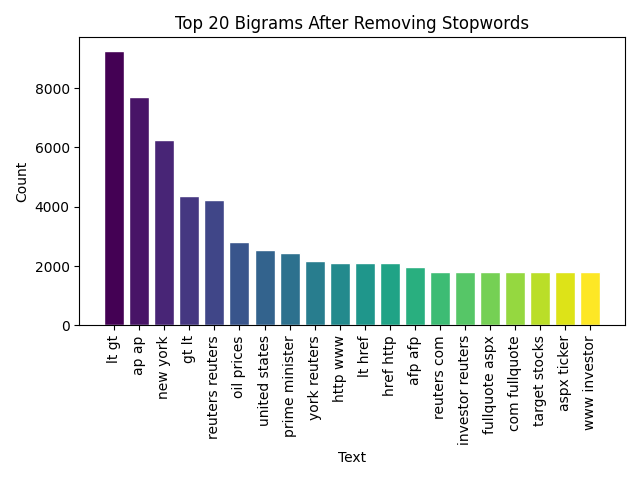
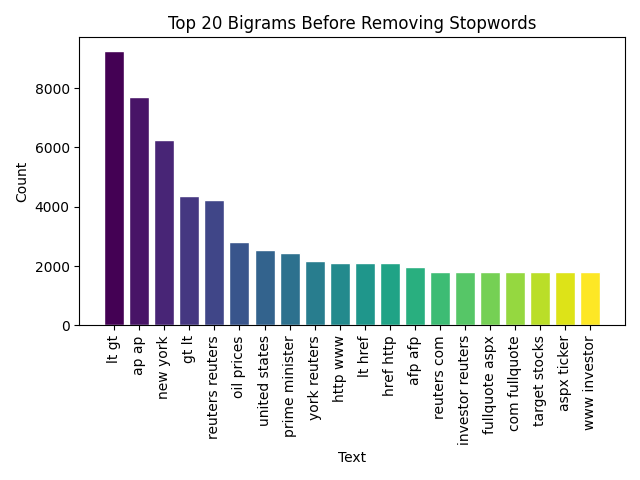
minor changes

Changed region(s): [[0.25, 0.0312, 0.8438, 0.0938]]

diff --git a/eda.py b/eda.py
@@ -127,9 +127,9 @@ def plotBarChart(data, colormap, xlabel, ylabel, title, filename):
 
 plotBarChart(trainBeforeStop, 'viridis', 'Text', 'Count', 'Top 20 Words Before Removing Stopwords', '\\top20BeforeStopwords.png')
 plotBarChart(trainAfterStop, 'viridis', 'Text', 'Count', 'Top 20 Words After Removing Stopwords', '\\top20AfterStopwords.png')
-plotBarChart(trainBeforeBigram, 'viridis', 'Text', 'Count', 'Top 20 Bigrams After Removing Stopwords', '\\top20BeforeBigrams.png')
+plotBarChart(trainBeforeBigram, 'viridis', 'Text', 'Count', 'Top 20 Bigrams Before Removing Stopwords', '\\top20BeforeBigrams.png')
 plotBarChart(trainAfterBigram, 'viridis', 'Text', 'Count', 'Top 20 Bigrams After Removing Stopwords', '\\top20AfterBigrams.png')
-plotBarChart(trainBeforeTrigram, 'viridis', 'Text', 'Count', 'Top 20 Trigrams After Removing Stopwords', '\\top20BeforeTrigrams.png')
+plotBarChart(trainBeforeTrigram, 'viridis', 'Text', 'Count', 'Top 20 Trigrams Before Removing Stopwords', '\\top20BeforeTrigrams.png')
 plotBarChart(trainAfterTrigram, 'viridis', 'Text', 'Count', 'Top 20 Trigrams After Removing Stopwords', '\\top20AfterTrigrams.png')
 
 plotBarChart(commonFinal0, 'magma', 'Word', 'Count', 'Top 20 Words for World News', '\\wordsWorld.png')
